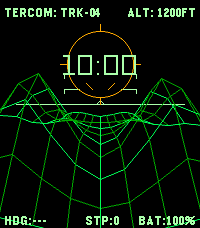
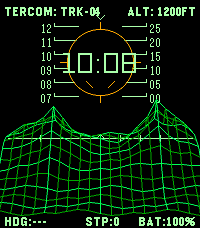
feat: TERCOM v1.0.1 - 6-line time altitude ladder and full-width topographic mountain mesh

diff --git a/watchface/src/c/tercom_renderer.c b/watchface/src/c/tercom_renderer.c
@@ -5,27 +5,6 @@ static GFont s_font_time;
 static GFont s_font_telemetry;
 static GFont s_font_small;
 
-// Spacing constants for terrain mesh
-static const int16_t s_depth_y[NUM_DEPTH_ROWS] = {
-  116, 122, 130, 140, 154, 172, 194, 218, 240
-};
-
-// Lateral spread half-width at each depth row (from horizon to screen bottom)
-static const int16_t s_spread_w[NUM_DEPTH_ROWS] = {
-  34, 42, 54, 68, 84, 102, 124, 146, 170
-};
-
-// Topographic mountain profile per column (c: 0..10, center at 5)
-// Creates jagged peaks on flanks and a rolling valley in center
-static const int16_t s_col_profile[NUM_GRID_COLS] = {
-  22, 34, 38, 24, 12, 6, 10, 22, 36, 32, 18
-};
-
-// Harmonic wave modulators for continuous forward terrain motion
-static const int16_t s_wave_phase[8] = {
-  4, 8, 14, 18, 15, 9, 3, 1
-};
-
 void tercom_renderer_init(void) {
   s_font_time = fonts_get_system_font(FONT_KEY_LECO_28_LIGHT_NUMBERS);
   s_font_telemetry = fonts_get_system_font(FONT_KEY_GOTHIC_14_BOLD);
@@ -33,7 +12,7 @@ void tercom_renderer_init(void) {
 }
 
 void tercom_renderer_deinit(void) {
-  // System fonts do not need to be destroyed
+  // System fonts managed by OS
 }
 
 static GPoint rotate_around_center(GPoint pt, GPoint center, int32_t angle) {
@@ -49,59 +28,119 @@ static GPoint rotate_around_center(GPoint pt, GPoint center, int32_t angle) {
   return GPoint(center.x + rx, center.y + ry);
 }
 
-static void draw_pitch_ladder(GContext *ctx, GPoint center, int16_t pitch_offset, int32_t roll_angle) {
+/*
+ * 6-line Altitude / Pitch Ladder with Time Reference:
+ * - 6 horizontal lines spaced across the upper HUD viewport.
+ * - Left labels: Hours reference (e.g. 12, 11, 10, 09, 08, 07).
+ * - Right labels: Minutes in 5-minute increments (25..00 or 55..30).
+ */
+static void draw_altitude_time_gauge(GContext *ctx, GPoint center, int16_t pitch_offset, int32_t roll_angle, const TercomTelemetry *telemetry) {
   graphics_context_set_stroke_color(ctx, COLOR_HORIZON);
+  graphics_context_set_text_color(ctx, COLOR_TELEMETRY);
 
-  // Pitch angles to display: +20, +10, 0, -10
-  static const int16_t s_pitch_deg[] = { 20, 10, 0, -10 };
-  const int count = sizeof(s_pitch_deg) / sizeof(s_pitch_deg[0]);
+  // Top indicator chevron ▼ above the ladder
+  GPoint top_pip = rotate_around_center(GPoint(center.x, 19 + pitch_offset), center, roll_angle);
+  GPoint top_pip_l = rotate_around_center(GPoint(center.x - 4, 15 + pitch_offset), center, roll_angle);
+  GPoint top_pip_r = rotate_around_center(GPoint(center.x + 4, 15 + pitch_offset), center, roll_angle);
+  graphics_draw_line(ctx, top_pip_l, top_pip);
+  graphics_draw_line(ctx, top_pip, top_pip_r);
 
-  for (int i = 0; i < count; i++) {
-    int16_t deg = s_pitch_deg[i];
-    // Scale: 1.5 pixels per degree
-    int16_t y = (center.y + 40) - (deg * 15 / 10) + pitch_offset;
-    if (y < 26 || y > 116) {
+  // Current hour calculation
+  int cur_hour = telemetry->hours;
+  if (!telemetry->is_24h) {
+    cur_hour = cur_hour % 12;
+    if (cur_hour == 0) cur_hour = 12;
+  }
+
+  // Right side 5-minute increments:
+  // First half of hour (0-29 min): 25, 20, 15, 10, 05, 00
+  // Second half of hour (30-59 min): 55, 50, 45, 40, 35, 30
+  int min_base = (telemetry->minutes >= 30) ? 30 : 0;
+  static const int s_min_offsets[6] = { 25, 20, 15, 10, 5, 0 };
+
+  // 6 horizontal ladder lines (spaced by 14 pixels from y=26 to y=96)
+  static const int16_t s_line_y[6] = { 26, 40, 54, 68, 82, 96 };
+
+  for (int i = 0; i < 6; i++) {
+    int16_t y = s_line_y[i] + pitch_offset;
+    if (y < 20 || y > 114) {
       continue;
     }
 
-    if (deg == 0) {
-      // Horizon baseline
-      GPoint p1 = rotate_around_center(GPoint(16, y), center, roll_angle);
-      GPoint p2 = rotate_around_center(GPoint(SCREEN_WIDTH - 16, y), center, roll_angle);
-      graphics_draw_line(ctx, p1, p2);
-
-      // Center chevron indicator ^
-      GPoint pip = rotate_around_center(GPoint(center.x, y - 4), center, roll_angle);
-      GPoint pip_l = rotate_around_center(GPoint(center.x - 4, y), center, roll_angle);
-      GPoint pip_r = rotate_around_center(GPoint(center.x + 4, y), center, roll_angle);
-      graphics_draw_line(ctx, pip_l, pip);
-      graphics_draw_line(ctx, pip, pip_r);
+    // Left hour label: Line 2 corresponds to current hour
+    int line_hour = cur_hour + (2 - i);
+    if (!telemetry->is_24h) {
+      while (line_hour <= 0) line_hour += 12;
+      while (line_hour > 12) line_hour -= 12;
     } else {
-      // Pitch ladder rungs: left rung and right rung with tick
-      int16_t half_w = (deg > 0) ? 22 : 18;
-      int16_t tick = (deg > 0) ? 4 : -4;
-
-      // Left rung
-      GPoint l1 = rotate_around_center(GPoint(center.x - 36, y), center, roll_angle);
-      GPoint l2 = rotate_around_center(GPoint(center.x - 36 + half_w, y), center, roll_angle);
-      GPoint l_tick = rotate_around_center(GPoint(center.x - 36, y + tick), center, roll_angle);
-      graphics_draw_line(ctx, l1, l2);
-      graphics_draw_line(ctx, l1, l_tick);
-
-      // Right rung
-      GPoint r1 = rotate_around_center(GPoint(center.x + 36 - half_w, y), center, roll_angle);
-      GPoint r2 = rotate_around_center(GPoint(center.x + 36, y), center, roll_angle);
-      GPoint r_tick = rotate_around_center(GPoint(center.x + 36, y + tick), center, roll_angle);
-      graphics_draw_line(ctx, r1, r2);
-      graphics_draw_line(ctx, r2, r_tick);
+      while (line_hour < 0) line_hour += 24;
+      while (line_hour >= 24) line_hour -= 24;
     }
+
+    char hour_str[8];
+    snprintf(hour_str, sizeof(hour_str), "%02d", line_hour);
+
+    // Right minute label (5-minute increment)
+    int line_min = min_base + s_min_offsets[i];
+    char min_str[8];
+    snprintf(min_str, sizeof(min_str), "%02d", line_min);
+
+    // Left rung: outer tick to inner segment
+    GPoint l_outer = rotate_around_center(GPoint(center.x - 46, y), center, roll_angle);
+    GPoint l_inner = rotate_around_center(GPoint(center.x - 22, y), center, roll_angle);
+    GPoint l_tick  = rotate_around_center(GPoint(center.x - 46, y - 3), center, roll_angle);
+    graphics_draw_line(ctx, l_outer, l_inner);
+    graphics_draw_line(ctx, l_outer, l_tick);
+
+    // Right rung: inner segment to outer tick
+    GPoint r_inner = rotate_around_center(GPoint(center.x + 22, y), center, roll_angle);
+    GPoint r_outer = rotate_around_center(GPoint(center.x + 46, y), center, roll_angle);
+    GPoint r_tick  = rotate_around_center(GPoint(center.x + 46, y - 3), center, roll_angle);
+    graphics_draw_line(ctx, r_inner, r_outer);
+    graphics_draw_line(ctx, r_outer, r_tick);
+
+    // Draw Left Hour Label
+    GPoint l_txt_pos = rotate_around_center(GPoint(center.x - 70, y - 7), center, roll_angle);
+    graphics_draw_text(ctx, hour_str, s_font_small,
+                       GRect(l_txt_pos.x, l_txt_pos.y, 22, 14),
+                       GTextOverflowModeWordWrap, GTextAlignmentRight, NULL);
+
+    // Draw Right Minute Label (5-min increments)
+    GPoint r_txt_pos = rotate_around_center(GPoint(center.x + 49, y - 7), center, roll_angle);
+    graphics_draw_text(ctx, min_str, s_font_small,
+                       GRect(r_txt_pos.x, r_txt_pos.y, 22, 14),
+                       GTextOverflowModeWordWrap, GTextAlignmentLeft, NULL);
+  }
+
+  // Main Horizon Baseline at y = 138
+  int16_t horiz_y = 138 + pitch_offset;
+  GPoint h1 = rotate_around_center(GPoint(8, horiz_y), center, roll_angle);
+  GPoint h2 = rotate_around_center(GPoint(SCREEN_WIDTH - 8, horiz_y), center, roll_angle);
+  graphics_draw_line(ctx, h1, h2);
+
+  // Center chevron indicator on horizon: ^
+  GPoint pip_c = rotate_around_center(GPoint(center.x, horiz_y - 4), center, roll_angle);
+  GPoint pip_l = rotate_around_center(GPoint(center.x - 4, horiz_y), center, roll_angle);
+  GPoint pip_r = rotate_around_center(GPoint(center.x + 4, horiz_y), center, roll_angle);
+  graphics_draw_line(ctx, pip_l, pip_c);
+  graphics_draw_line(ctx, pip_c, pip_r);
+
+  // Pitch tick marks along horizon
+  for (int tx = center.x - 60; tx <= center.x + 60; tx += 20) {
+    if (tx == center.x) continue;
+    GPoint p_top = rotate_around_center(GPoint(tx, horiz_y - 3), center, roll_angle);
+    GPoint p_bot = rotate_around_center(GPoint(tx, horiz_y + 3), center, roll_angle);
+    graphics_draw_line(ctx, p_top, p_bot);
   }
 }
 
+/*
+ * Flight Path Reticle & Digital Time Readout
+ */
 static void draw_reticle_and_time(GContext *ctx, GPoint center, const TercomTelemetry *telemetry) {
   const int radius = 33;
 
-  // Mask interior of reticle with solid black to isolate CRT digits from pitch ladder
+  // Mask interior of reticle with solid black to isolate CRT digits
   graphics_context_set_fill_color(ctx, COLOR_BG);
   graphics_fill_circle(ctx, center, radius - 1);
 
@@ -136,30 +175,81 @@ static void draw_reticle_and_time(GContext *ctx, GPoint center, const TercomTele
                      GTextOverflowModeWordWrap, GTextAlignmentCenter, NULL);
 }
 
+/*
+ * 3D Topographic Wireframe Terrain Mesh:
+ * Dense 21-column by 12-row wireframe elevation model evoking Evans & Sutherland flight sim HUD.
+ * Models jagged mountain peaks on left and right, with continuous perspective contour lines.
+ */
 static void draw_terrain_mesh(GContext *ctx, int16_t scroll_phase) {
   GPoint pts[NUM_DEPTH_ROWS][NUM_GRID_COLS];
   int center_x = SCREEN_WIDTH / 2;
+  int phase_step = scroll_phase / 32;
+
+  // Mountain peak height weights across depth rows:
+  // Peaks occur in rows 0..5 (midground/horizon), rising above horizon.
+  // Foreground rows (6..11) smooth out into approach grid.
+  static const int16_t s_mountain_weight[NUM_DEPTH_ROWS] = {
+    16, 26, 36, 30, 22, 14, 8, 3, 1, 0, 0, 0
+  };
+
+  // Base Y positions for depth rows (perspective compression)
+  static const int16_t s_row_base_y[NUM_DEPTH_ROWS] = {
+    138, 140, 143, 148, 154, 162, 171, 181, 191, 200, 208, 215
+  };
 
   // Compute 3D grid vertices
   for (int r = 0; r < NUM_DEPTH_ROWS; r++) {
-    int16_t base_y = s_depth_y[r];
-    int16_t half_w = s_spread_w[r];
-    int wave_idx = (r + (scroll_phase / 32)) % 8;
-    int16_t wave_val = s_wave_phase[wave_idx];
+    int16_t base_y = s_row_base_y[r];
+    // Edge-to-edge lateral spread: spans the full width of display
+    int16_t half_w = 90 + ((r * 22) / (NUM_DEPTH_ROWS - 1));
+    int16_t m_weight = s_mountain_weight[r];
 
     for (int c = 0; c < NUM_GRID_COLS; c++) {
-      // Lateral X coordinate spread
+      // Lateral X coordinate across screen width
       int16_t x = center_x - half_w + ((2 * half_w * c) / (NUM_GRID_COLS - 1));
 
-      // Elevation computation: column profile modulated by wave and row depth
-      int16_t elev = (s_col_profile[c] * wave_val * (r + 2)) / 48;
+      // 1. Left Mountain Range (peak around column 5)
+      int d_left = c - 5;
+      if (d_left < 0) d_left = -d_left;
+      int16_t h_left = 0;
+      if (d_left <= 5) {
+        h_left = ((5 - d_left) * (5 - d_left) * 36) / 25;
+      }
+      // Sub-ridge on left flank (col 2)
+      int d_flank = c - 2;
+      if (d_flank < 0) d_flank = -d_flank;
+      if (d_flank <= 3) {
+        h_left += (3 - d_flank) * 3;
+      }
+
+      // 2. Right Mountain Range (sharp craggy summit around column 16)
+      int d_right = c - 16;
+      if (d_right < 0) d_right = -d_right;
+      int16_t h_right = 0;
+      if (d_right <= 5) {
+        h_right = ((5 - d_right) * (5 - d_right) * 40) / 25;
+      }
+      // Secondary shoulder on right (col 19)
+      int d_sh = c - 19;
+      if (d_sh < 0) d_sh = -d_sh;
+      if (d_sh <= 3) {
+        h_right += (3 - d_sh) * 4;
+      }
+
+      // 3. Rolling foothills & approach wave
+      static const int8_t s_roll[8] = { 2, 4, 6, 5, 2, 0, 1, 3 };
+      int wave_idx = (c + phase_step + r) % 8;
+      int16_t h_mid = s_roll[wave_idx];
+
+      // Calculate total elevation: peaks rise up cleanly above horizon
+      int16_t elev = ((h_left + h_right) * m_weight) / 36 + h_mid;
       int16_t y = base_y - elev;
 
       pts[r][c] = GPoint(x, y);
     }
   }
 
-  // Draw lateral ridge contour lines (horizontal along ridges)
+  // Draw lateral contour lines (horizontal along terrain ridges)
   for (int r = 0; r < NUM_DEPTH_ROWS; r++) {
     GColor line_color = (r % 2 == 0) ? COLOR_TERRAIN_PRIMARY : COLOR_TERRAIN_SECONDARY;
     graphics_context_set_stroke_color(ctx, line_color);
@@ -169,9 +259,10 @@ static void draw_terrain_mesh(GContext *ctx, int16_t scroll_phase) {
     }
   }
 
-  // Draw longitudinal perspective grid lines (vertical running to vanishing point)
+  // Draw longitudinal perspective grid lines (running towards vanishing point)
   for (int c = 0; c < NUM_GRID_COLS; c++) {
-    GColor line_color = (c == 0 || c == NUM_GRID_COLS - 1 || c == 5)
+    // Highlight peak spines and center grid lines
+    GColor line_color = (c == 5 || c == 16 || c == 10 || c == 0 || c == NUM_GRID_COLS - 1)
                         ? COLOR_TERRAIN_PRIMARY
                         : COLOR_TERRAIN_SECONDARY;
     graphics_context_set_stroke_color(ctx, line_color);
@@ -192,10 +283,10 @@ static void draw_telemetry_bars(GContext *ctx, GRect bounds, const TercomTelemet
   snprintf(top_r_str, sizeof(top_r_str), "ALT: %ldFT", (long)telemetry->altitude_ft);
 
   graphics_draw_text(ctx, top_l_str, s_font_telemetry,
-                     GRect(4, 3, 110, 18),
+                     GRect(4, 2, 110, 18),
                      GTextOverflowModeWordWrap, GTextAlignmentLeft, NULL);
   graphics_draw_text(ctx, top_r_str, s_font_telemetry,
-                     GRect(SCREEN_WIDTH - 90, 3, 86, 18),
+                     GRect(SCREEN_WIDTH - 90, 2, 86, 18),
                      GTextOverflowModeWordWrap, GTextAlignmentRight, NULL);
 
   // Bottom telemetry bar: HDG | STEPS / DIST | BATT
@@ -213,13 +304,13 @@ static void draw_telemetry_bars(GContext *ctx, GRect bounds, const TercomTelemet
   snprintf(bot_batt_str, sizeof(bot_batt_str), "BAT:%d%%", telemetry->battery_percent);
 
   graphics_draw_text(ctx, bot_hdg_str, s_font_telemetry,
-                     GRect(4, SCREEN_HEIGHT - 17, 62, 16),
+                     GRect(4, SCREEN_HEIGHT - 16, 62, 16),
                      GTextOverflowModeWordWrap, GTextAlignmentLeft, NULL);
   graphics_draw_text(ctx, bot_steps_str, s_font_telemetry,
-                     GRect(68, SCREEN_HEIGHT - 17, 68, 16),
+                     GRect(68, SCREEN_HEIGHT - 16, 68, 16),
                      GTextOverflowModeWordWrap, GTextAlignmentCenter, NULL);
   graphics_draw_text(ctx, bot_batt_str, s_font_telemetry,
-                     GRect(SCREEN_WIDTH - 66, SCREEN_HEIGHT - 17, 62, 16),
+                     GRect(SCREEN_WIDTH - 66, SCREEN_HEIGHT - 16, 62, 16),
                      GTextOverflowModeWordWrap, GTextAlignmentRight, NULL);
 }
 
@@ -228,10 +319,10 @@ void tercom_renderer_draw(GContext *ctx, GRect bounds, const TercomTelemetry *te
   graphics_context_set_fill_color(ctx, COLOR_BG);
   graphics_fill_rect(ctx, bounds, 0, GCornerNone);
 
-  GPoint center = GPoint(SCREEN_WIDTH / 2, 64);
+  GPoint center = GPoint(SCREEN_WIDTH / 2, 62);
 
-  // 1. Draw pitch ladder & artificial horizon
-  draw_pitch_ladder(ctx, center, telemetry->pitch_offset_px, telemetry->roll_angle);
+  // 1. Draw 6-line altitude time ladder & artificial horizon
+  draw_altitude_time_gauge(ctx, center, telemetry->pitch_offset_px, telemetry->roll_angle, telemetry);
 
   // 2. Draw 3D topographic wireframe terrain mesh
   draw_terrain_mesh(ctx, telemetry->scroll_phase);

diff --git a/watchface/src/c/config.h b/watchface/src/c/config.h
@@ -11,7 +11,7 @@
 #endif
 
 #ifndef HORIZON_Y
-#define HORIZON_Y 116
+#define HORIZON_Y 122
 #endif
 
 // Visual Palette (Emery 64-color)
@@ -27,8 +27,8 @@
 // Animation & Performance
 #define ACTIVE_ANIM_FPS         25
 #define ACTIVE_ANIM_DURATION_MS 4500
-#define NUM_DEPTH_ROWS          9
-#define NUM_GRID_COLS           11
+#define NUM_DEPTH_ROWS          12
+#define NUM_GRID_COLS           21
 
 // Test Fixtures (Can be overridden via -D or env)
 #ifndef TERCOM_TEST_MINUTE

diff --git a/knowledge/SESSION.md b/knowledge/SESSION.md
@@ -29,3 +29,4 @@
 
 - 2026-10-18 08:07 — commit: chore: initialize project from template
 - 2026-10-18 10:00 — release: TERCOM 1.0.0 published to RePebble (https://apps.rePebble.com/c6f081e1607448bf92df7de4)
+- 2026-10-18 10:01 — commit: feat: release TERCOM 1.0.0 watchface for Pebble Time 2 (Emery) to RePebble | directives/build_tercom.md,execution/create_store_assets.py,execution/emulator_check.py,execution/publish_release.py,knowledge/INDEX.md
